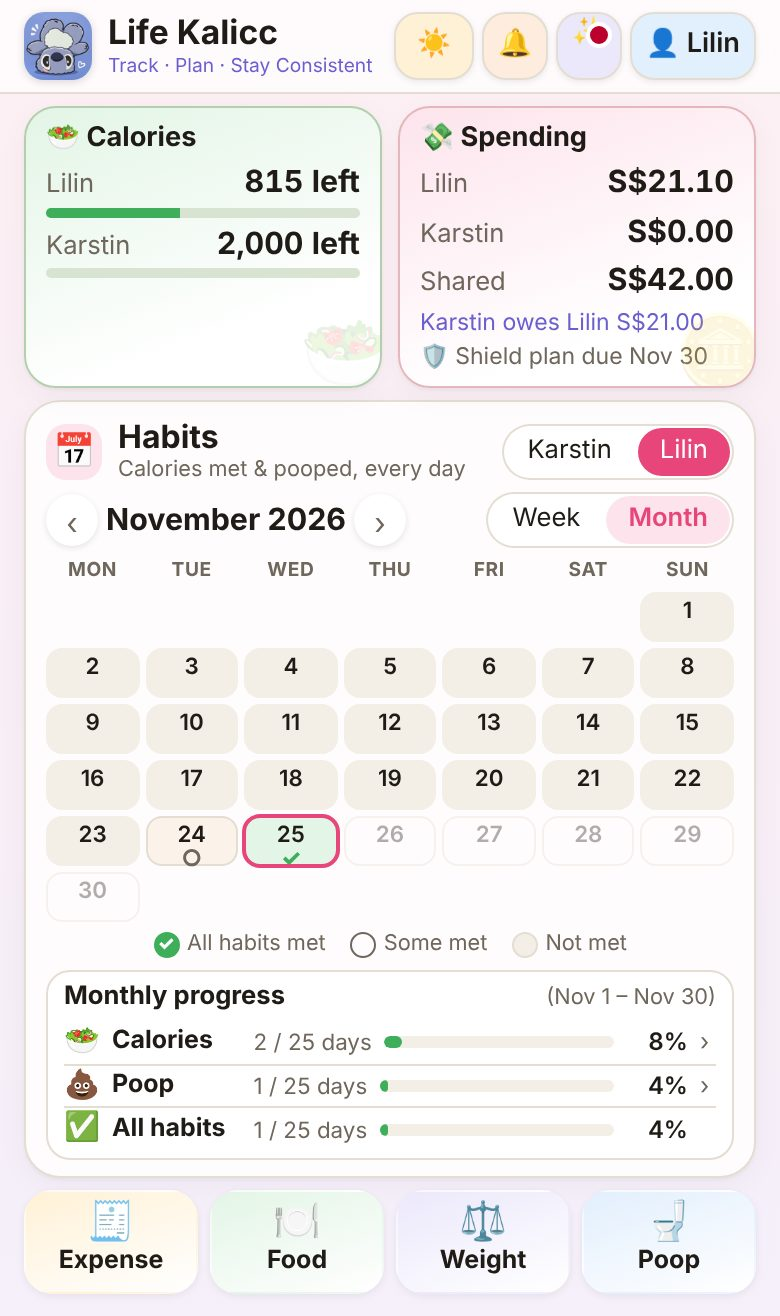
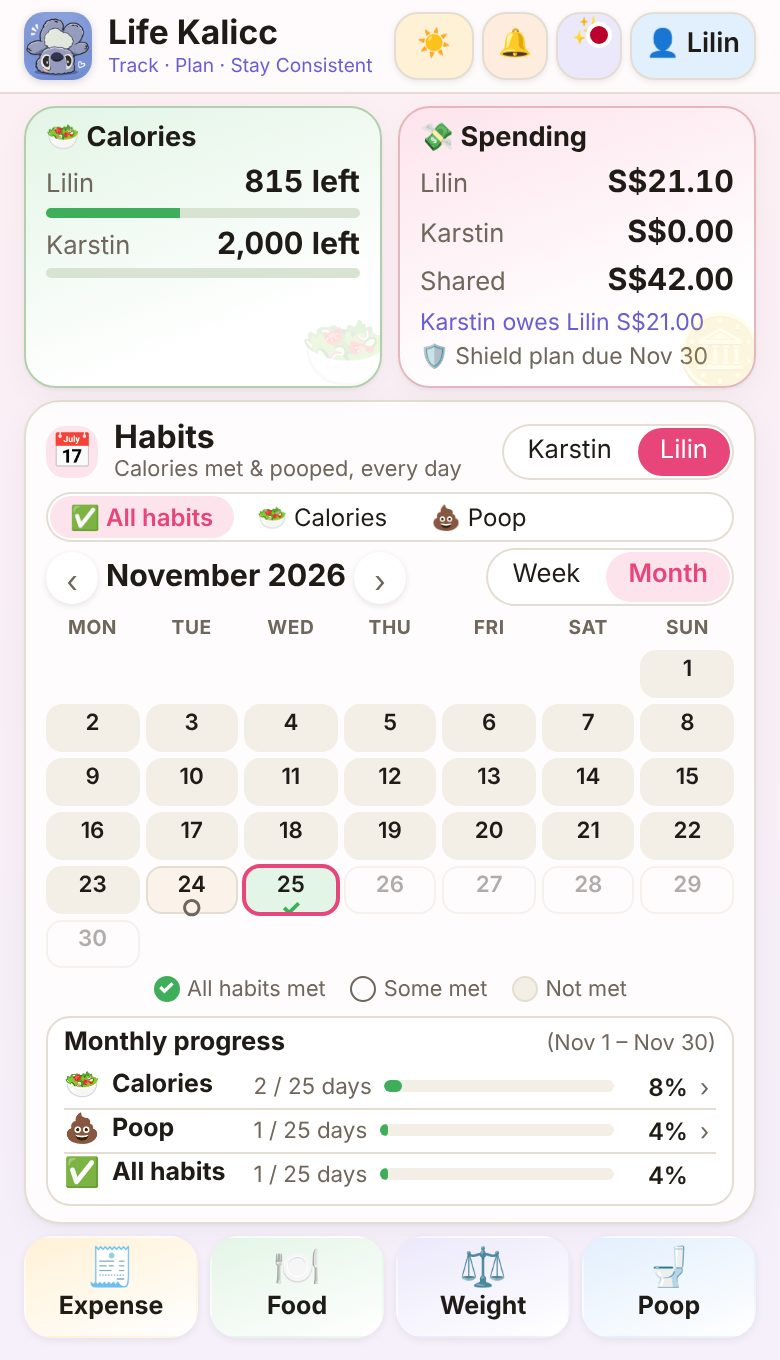
Habits: see one habit at a time on the calendar
A ✅ All habits / 🥗 Calories / 💩 Poop switch above the calendar (or tapping
a habit in the progress list) shows that habit on its own: ✓ met, ✕ not
met, grey not logged, with Met / Not met / Not logged / Success rate
totals and a link into its app. All habits keeps ✓ both / ○ one.

Claude-Session: https://claude.ai/code/session_01KGaSeqBZzEPJimoKXXuGSj

diff --git a/public/home.js b/public/home.js
@@ -112,6 +112,20 @@ const mondayOf = (iso) => shift(iso, -((new Date(`${iso}T00:00:00Z`).getUTCDay()
 const fmtD = (iso, o) => new Date(`${iso}T00:00:00Z`).toLocaleDateString("en-US", { ...o, timeZone: "UTC" });
 let calWho = null, calMonth = localToday().slice(0, 7), calWeek = mondayOf(localToday()), calPick = null;
 let calMode = store.get("home.calMode") === "week" ? "week" : "month";
+// Which habit the calendar shows: "all" (✓ both kept, ○ one), or one habit on its own
+// (✓ met, ✕ not met, grey not logged) with its own totals underneath.
+let calCat = "all";
+const CATS = {
+  all: { icon: "📅", name: "Habits", sub: "Calories met & pooped, every day" },
+  cals: { icon: "🥗", name: "Calories", sub: "Within your calorie goal", href: "/fitness/#progress", open: "Open the food diary" },
+  poop: { icon: "💩", name: "Poop", sub: "A poop logged that day", href: "/toilet/", open: "Open the toilet log" },
+};
+// One day for the chosen habit: "met", "miss" (not met) or "none" (nothing logged yet).
+function catStatus(r, d, today) {
+  if (calCat === "cals") return r.eaten === 0 ? "none" : r.cals ? "met" : "miss";
+  if (calCat === "poop") return r.pooped ? "met" : d === today ? "none" : "miss";
+  return r.status;
+}
 
 function dayInfo(p, d) {
   const eaten = sum(fitDoc.foods.filter((f) => f.person === p && f.date === d), "kcal");
@@ -144,15 +158,24 @@ function renderCal() {
   $("#calNext").disabled = shift(to, 1) > today;
   $("#habitsTitle").closest(".habits").dataset.mode = calMode;
 
-  const counts = { days: 0, cals: 0, pooped: 0, all: 0 };
+  const cat = CATS[calCat];
+  for (const r of document.querySelectorAll('input[name="calCat"]')) r.checked = r.value === calCat;
+  $("#habIcon").textContent = cat.icon;
+  $("#habitsTitle").textContent = cat.name;
+  $("#habSub").textContent = cat.sub;
+  $("#habKey").innerHTML = calCat === "all"
+    ? `<span><i class="hk all">✓</i> All habits met</span><span><i class="hk some">○</i> Some met</span><span><i class="hk none"></i> Not met</span>`
+    : `<span><i class="hk all">✓</i> Met</span><span><i class="hk miss">✕</i> Not met</span><span><i class="hk none"></i> Not logged</span>`;
+  const counts = { days: 0, cals: 0, pooped: 0, all: 0, met: 0, miss: 0, none: 0 };
   const lead = (new Date(`${from}T00:00:00Z`).getUTCDay() + 6) % 7;
   const cells = Array.from({ length: lead }, () => `<span class="cal-day blank"></span>`);
   for (let d = from; d <= to; d = shift(d, 1)) {
     const future = d > today;
     const r = future ? null : dayInfo(calWho, d);
     if (r) { counts.days++; if (r.cals) counts.cals++; if (r.pooped) counts.pooped++; if (r.status === "all") counts.all++; }
-    const status = r ? r.status : "future";
-    const mark = status === "all" ? "✓" : status === "some" ? "○" : "";
+    const status = r ? catStatus(r, d, today) : "future";
+    if (r && calCat !== "all") counts[status]++;
+    const mark = status === "all" || status === "met" ? "✓" : status === "some" ? "○" : status === "miss" ? "✕" : "";
     const label = `${fmtD(d, { month: "short", day: "numeric" })}${r ? `: ${r.cals ? "calories met" : "calories not met"}, ${r.pooped ? "pooped" : "no poop logged"}` : ""}`;
     cells.push(`<button type="button" class="cal-day st-${status}${d === today ? " today" : ""}${d === calPick ? " picked" : ""}" data-day="${d}" ${future ? "disabled" : ""} aria-label="${label}">
       <b>${Number(d.slice(8))}</b><span class="cal-tick" aria-hidden="true">${mark}</span></button>`);
@@ -163,13 +186,21 @@ function renderCal() {
   $("#progTitle").textContent = calMode === "week" ? "Weekly progress" : "Monthly progress";
   $("#progRange").textContent = `(${fmtD(from, { month: "short", day: "numeric" })} – ${fmtD(to, { month: "short", day: "numeric" })})`;
   const n = counts.days;
-  const prog = (icon, name, k, href) => {
+  const prog = (icon, name, k, href) => { // href: the habit to show when tapped
     const pct = n ? Math.round((counts[k] / n) * 100) : 0;
     const inner = `<span class="hp-ic" aria-hidden="true">${icon}</span><b class="hp-name">${name}</b><span class="hp-days">${counts[k]} / ${n} day${n === 1 ? "" : "s"}</span>
       <span class="hp-bar"><i style="width:${pct}%"></i></span><span class="hp-pct">${pct}%</span><span class="hp-go" aria-hidden="true">${href ? "›" : ""}</span>`;
-    return `<li>${href ? `<a href="${href}">${inner}</a>` : `<div>${inner}</div>`}</li>`;
+    return `<li>${href ? `<button type="button" data-cat="${href}" aria-label="Show ${name} on the calendar">${inner}</button>` : `<div>${inner}</div>`}</li>`;
   };
-  $("#progList").innerHTML = prog("🥗", "Calories", "cals", "/fitness/#progress") + prog("💩", "Poop", "pooped", "/toilet/") + prog("✅", "All habits", "all", "");
+  $("#progList").hidden = calCat !== "all";
+  $("#catStats").hidden = calCat === "all";
+  $("#progList").innerHTML = prog("🥗", "Calories", "cals", "cals") + prog("💩", "Poop", "pooped", "poop") + prog("✅", "All habits", "all", "");
+  if (calCat !== "all") {
+    const rate = n ? Math.round((counts.met / n) * 100) : 0;
+    const stat = (cls, mark, v, label) => `<div class="hs"><b>${mark ? `<i class="hk ${cls}">${mark}</i>` : ""}${v}</b><span>${label}</span></div>`;
+    $("#catStats").innerHTML = `<div class="hs-row">${stat("all", "✓", counts.met, "Met")}${stat("miss", "✕", counts.miss, "Not met")}${stat("none", " ", counts.none, "Not logged")}${stat("", "", `${rate}%`, "Success rate")}</div>
+      <a class="hs-open" href="${cat.href}">${cat.open} ›</a>`;
+  }
   renderCalDay();
 }
 
@@ -185,6 +216,8 @@ function renderCalDay() {
 }
 
 $("#calWho").addEventListener("change", (e) => { calWho = e.target.value; renderCal(); });
+$("#calCat").addEventListener("change", (e) => { calCat = e.target.value; renderCal(); });
+$("#progList").addEventListener("click", (e) => { const b = e.target.closest("[data-cat]"); if (b) { calCat = b.dataset.cat; renderCal(); } });
 $("#calMode").addEventListener("change", (e) => {
   calMode = e.target.value; store.set("home.calMode", calMode);
   // Keep looking at roughly the same time: the week of the month's last day shown, or the week's month.

diff --git a/public/style.css b/public/style.css
@@ -1390,7 +1390,7 @@ dialog.shot-dlg p { margin: 8px 0 0; }
 .home-page .new-btn { background: var(--hp-lilac-soft); }
 .home-page #whoBtn { background: var(--hp-blue-soft); font-weight: 600; }
 
-.home-page main { gap: 6px; padding: 6px 12px; padding-bottom: 78px; }
+.home-page main { gap: 6px; padding: 6px 12px; padding-bottom: 74px; }
 .home-page .glance { gap: 8px; margin: 0; }
 .home-page .glance-card { position: relative; overflow: hidden; gap: 3px; padding: 7px 10px; border-radius: 16px; }
 .home-page .glance-card h3 { font-size: 0.85rem; color: var(--text); font-weight: 700; position: relative; }
@@ -1418,7 +1418,7 @@ dialog.shot-dlg p { margin: 8px 0 0; }
 
 .home-page .habits { padding: 8px 10px; gap: 3px; border-radius: 18px; background: color-mix(in srgb, var(--surface) 88%, var(--hp-pink-soft)); }
 .home-page .hab-top { display: flex; align-items: center; gap: 8px; }
-.home-page .hab-icon { display: grid; place-items: center; width: 28px; height: 28px; border-radius: 10px; background: var(--hp-pink-soft); font-size: 1.05rem; flex: none; }
+.home-page .hab-icon { display: grid; place-items: center; width: 26px; height: 26px; border-radius: 10px; background: var(--hp-pink-soft); font-size: 1.05rem; flex: none; }
 .home-page .hab-name { flex: 1; min-width: 0; }
 .home-page .hab-name h2 { margin: 0; font-size: 1rem; line-height: 1.15; }
 .home-page .hab-name p { margin: 0; font-size: 0.68rem; color: var(--muted); white-space: nowrap; overflow: hidden; text-overflow: ellipsis; }
@@ -1428,7 +1428,7 @@ dialog.shot-dlg p { margin: 8px 0 0; }
 .home-page .round-btn { width: 26px; height: 26px; min-width: 26px; border-radius: 50%; background: var(--surface); box-shadow: 0 1px 3px rgb(0 0 0 / 0.1); }
 .home-page .cal-grid { gap: 3px; margin-top: 2px; }
 .home-page .cal-wd { font-size: 0.6rem; padding: 0; text-transform: uppercase; letter-spacing: 0.03em; }
-.home-page .cal-day { min-height: 0; height: 25px; padding: 1px; border-radius: 8px; grid-template-rows: auto 1fr; gap: 0; background: var(--surface-2); border-color: transparent; }
+.home-page .cal-day { min-height: 0; height: 24px; padding: 1px; border-radius: 8px; grid-template-rows: auto 1fr; gap: 0; background: var(--surface-2); border-color: transparent; }
 .home-page .habits[data-mode="week"] .cal-day { height: 52px; }
 .home-page .cal-day b { font-size: 0.7rem; line-height: 1.25; }
 .home-page .cal-tick { font-size: 0.72rem; line-height: 0.9; font-weight: 800; }
@@ -1472,3 +1472,20 @@ dialog.shot-dlg p { margin: 8px 0 0; }
 .home-page .app-nav a span { padding: 2px 8px; }
 .home-page .app-nav a.active { color: var(--hp-pink); font-weight: 700; }
 .home-page .app-nav a.active span { background: var(--hp-pink-soft); }
+
+/* Habits: one habit at a time (✓ met, ✕ not met, grey not logged) and its totals */
+.home-page .hab-cats { align-self: start; }
+.home-page .hab-cats label span { padding: 2px 10px; font-size: 0.75rem; }
+.home-page .hab-cats input:checked + span { background: var(--hp-pink-soft); color: var(--hp-pink); font-weight: 600; }
+.home-page .cal-day.st-met { background: var(--hp-green-soft); border-color: color-mix(in srgb, var(--hp-green) 25%, transparent); }
+.home-page .cal-day.st-met .cal-tick { color: var(--hp-green); }
+.home-page .cal-day.st-miss { background: color-mix(in srgb, #e05a5a 14%, var(--surface)); border-color: color-mix(in srgb, #e05a5a 30%, transparent); }
+.home-page .cal-day.st-miss .cal-tick { color: #d64545; }
+.home-page .hk.miss { background: color-mix(in srgb, #e05a5a 18%, var(--surface)); color: #d64545; }
+.home-page .hp-list button { display: grid; grid-template-columns: 18px 5.4em auto 1fr 2.6em 8px; align-items: center; gap: 6px; width: 100%; padding: 0; border: 0; background: none; color: var(--text); font: inherit; font-size: 0.75rem; text-align: left; cursor: pointer; }
+.home-page .hp-list[hidden], .home-page .hp-stats[hidden] { display: none; }
+.home-page .hs-row { display: grid; grid-template-columns: repeat(4, 1fr); text-align: center; margin-top: 2px; }
+.home-page .hs + .hs { border-left: 1px solid var(--border); }
+.home-page .hs b { display: inline-flex; align-items: center; gap: 4px; font-size: 1.05rem; font-variant-numeric: tabular-nums; }
+.home-page .hs span { display: block; font-size: 0.66rem; color: var(--muted); }
+.home-page .hs-open { display: block; margin-top: 3px; text-align: right; font-size: 0.72rem; color: var(--hp-pink); text-decoration: none; font-weight: 600; }

diff --git a/public/index.html b/public/index.html
@@ -41,9 +41,14 @@
 
     <section class="panel home-cal habits" aria-labelledby="habitsTitle">
       <div class="hab-top">
-        <span class="hab-icon" aria-hidden="true">📅</span>
-        <div class="hab-name"><h2 id="habitsTitle">Habits</h2><p>Calories met &amp; pooped, every day</p></div>
+        <span class="hab-icon" id="habIcon" aria-hidden="true">📅</span>
+        <div class="hab-name"><h2 id="habitsTitle">Habits</h2><p id="habSub">Calories met &amp; pooped, every day</p></div>
         <div class="seg pill-seg" id="calWho" role="radiogroup" aria-label="Whose habits"></div>
+      </div>
+      <div class="seg pill-seg hab-cats" id="calCat" role="radiogroup" aria-label="Which habit">
+        <label><input type="radio" name="calCat" value="all" checked /><span>✅ All habits</span></label>
+        <label><input type="radio" name="calCat" value="cals" /><span>🥗 Calories</span></label>
+        <label><input type="radio" name="calCat" value="poop" /><span>💩 Poop</span></label>
       </div>
       <div class="hab-bar">
         <div class="cal-head">
@@ -57,10 +62,11 @@
         </div>
       </div>
       <div class="cal-grid" id="calGrid"><p class="muted small">Loading…</p></div>
-      <p class="hab-key"><span><i class="hk all">✓</i> All habits met</span><span><i class="hk some">○</i> Some met</span><span><i class="hk none"></i> Not met</span></p>
+      <p class="hab-key" id="habKey"></p>
       <div class="hab-progress">
         <div class="hp-head"><b id="progTitle">Monthly progress</b><span id="progRange"></span></div>
         <ul class="hp-list" id="progList"></ul>
+        <div class="hp-stats" id="catStats" hidden></div>
       </div>
     </section>
 

diff --git a/public/new/features.js b/public/new/features.js
@@ -12,7 +12,7 @@ export const FEATURES = [
     date: "2026-11-25",
     app: "🏠 Home",
     title: "Habits: a ✓ when both are done",
-    why: "The home calendar ticks a day when calories stayed within the goal and you pooped (○ when only one), switches between week and month, and shows how many days each habit was kept.",
+    why: "The home calendar ticks a day when calories stayed within the goal and you pooped (○ when only one), switches between week and month, and shows how many days each habit was kept. Tap 🥗 Calories or 💩 Poop to see one habit on its own: ✓ met, ✕ not met, with its success rate.",
   },
   {
     id: "home-redesign",

diff --git a/README.md b/README.md
@@ -3,7 +3,7 @@
 Shared, live-updating apps hosted on Netlify. The home page (https://japan-trip-budget.netlify.app/) is for everyday use:
 
 - **Quick add:** 💸 Expense (with a Shared switch inside), 🍽 Food, ⚖ Weight and 🚽 Poop each open the right app straight into its dialog, then come back to the home page with a confirmation. Exercise, income and payments are added from inside their apps.
-- **📅 Habits:** a calendar on the home page for Karstin or Lilin (toggle at the top), by week or month. A day gets ✓ when both habits were kept (calories within the goal and a poop logged), ○ when one was, and stays grey otherwise. Underneath, Monthly (or Weekly) progress shows how many days so far each habit was kept, and both together. ‹ › changes the period, and tapping a day shows its calories, toilet visits and spending.
+- **📅 Habits:** a calendar on the home page for Karstin or Lilin (toggle at the top), by week or month. A day gets ✓ when both habits were kept (calories within the goal and a poop logged), ○ when one was, and stays grey otherwise. Underneath, Monthly (or Weekly) progress shows how many days so far each habit was kept, and both together. Tap a habit there, or ✅ All habits / 🥗 Calories / 💩 Poop above the calendar, to see one habit on its own: ✓ met, ✕ not met, grey not logged, with Met / Not met / Not logged / Success rate totals. ‹ › changes the period, and tapping a day shows its calories, toilet visits and spending.
 - **✨ What's new:** the ✨ button at the top right of the home page lists the latest features, newest first. Features you can understand from a picture show a screenshot (tap to enlarge) with where to find it; the rest have a ▶ Watch walkthrough that opens the real pages and spotlights each button in turn, with Play/Pause, Back, Next and 1x/2x (the player in `public/tour/tour.js` is adapted from the portfolio demos' product tour). Walkthroughs only open forms and switch tabs, never save. A feature stays marked New, and the ✨ button keeps a red dot, until its screenshot or walkthrough is opened or you tap **✓ Mark all as read**. To add a feature, put it at the top of `public/new/features.js` with either a `shot` (in `public/new/img/`) or a walkthrough in `public/tour/tours.js` under the same id.
 - **Our apps:** a tab per app, opened with a tap. 💸 Expenses shows each person's spending this month and today, shared spending and who owes whom. 🥗 Food & fitness shows each person's calories left today and weight. 🗾 Japan trip links to the budget and journal. Each tab has links into its app.
 
